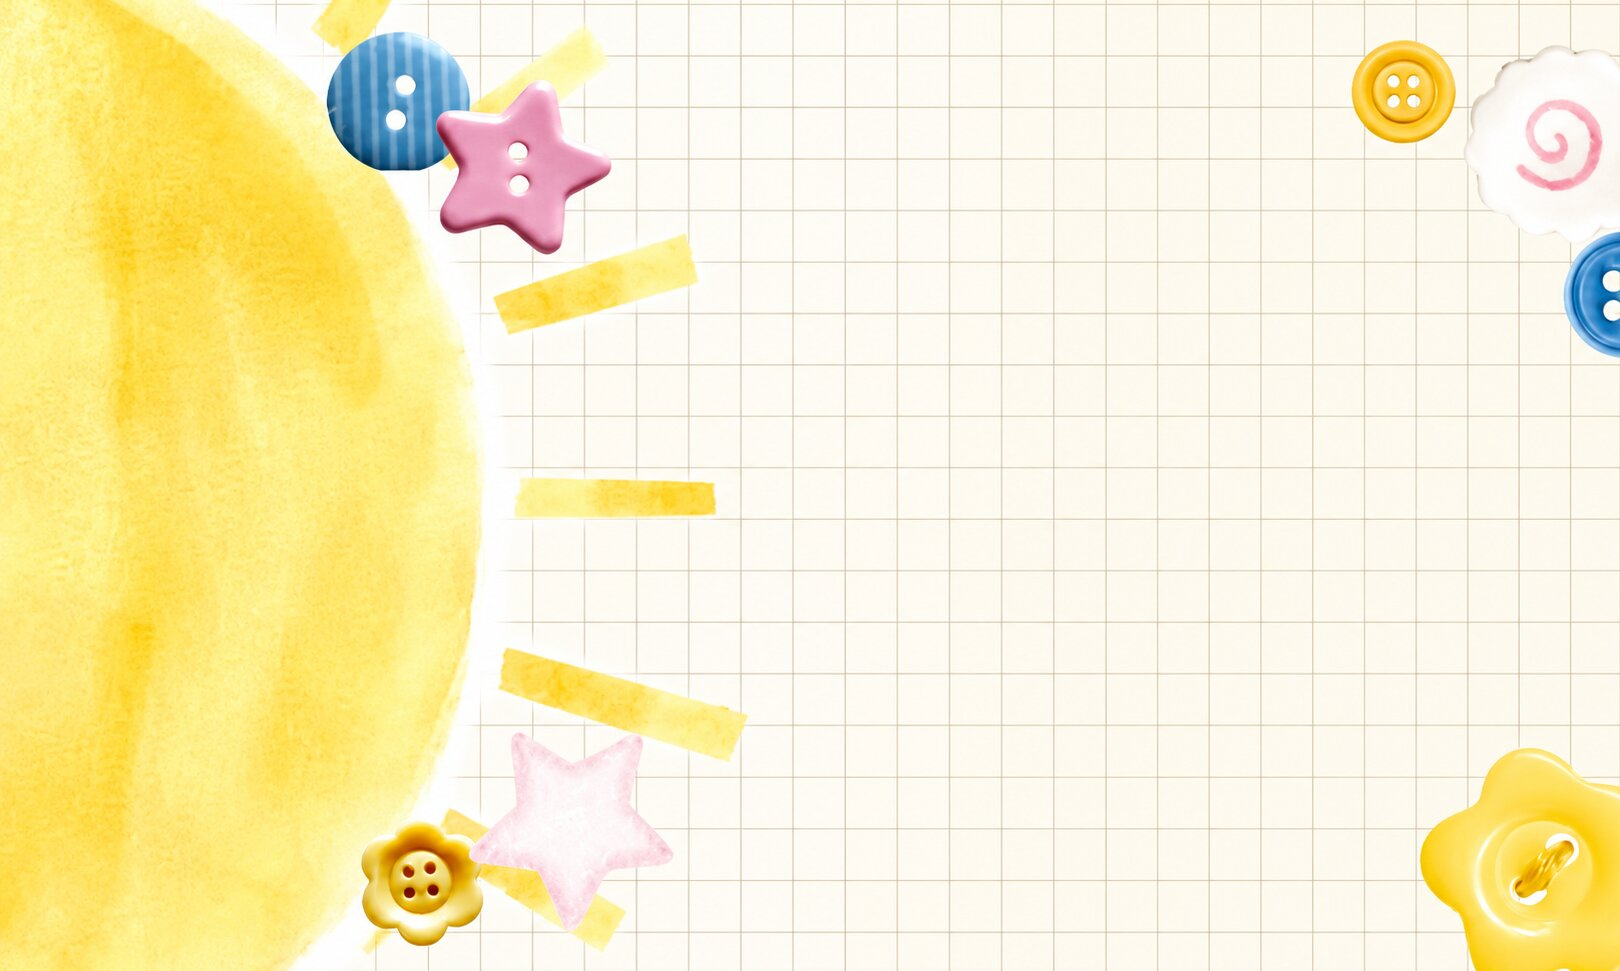
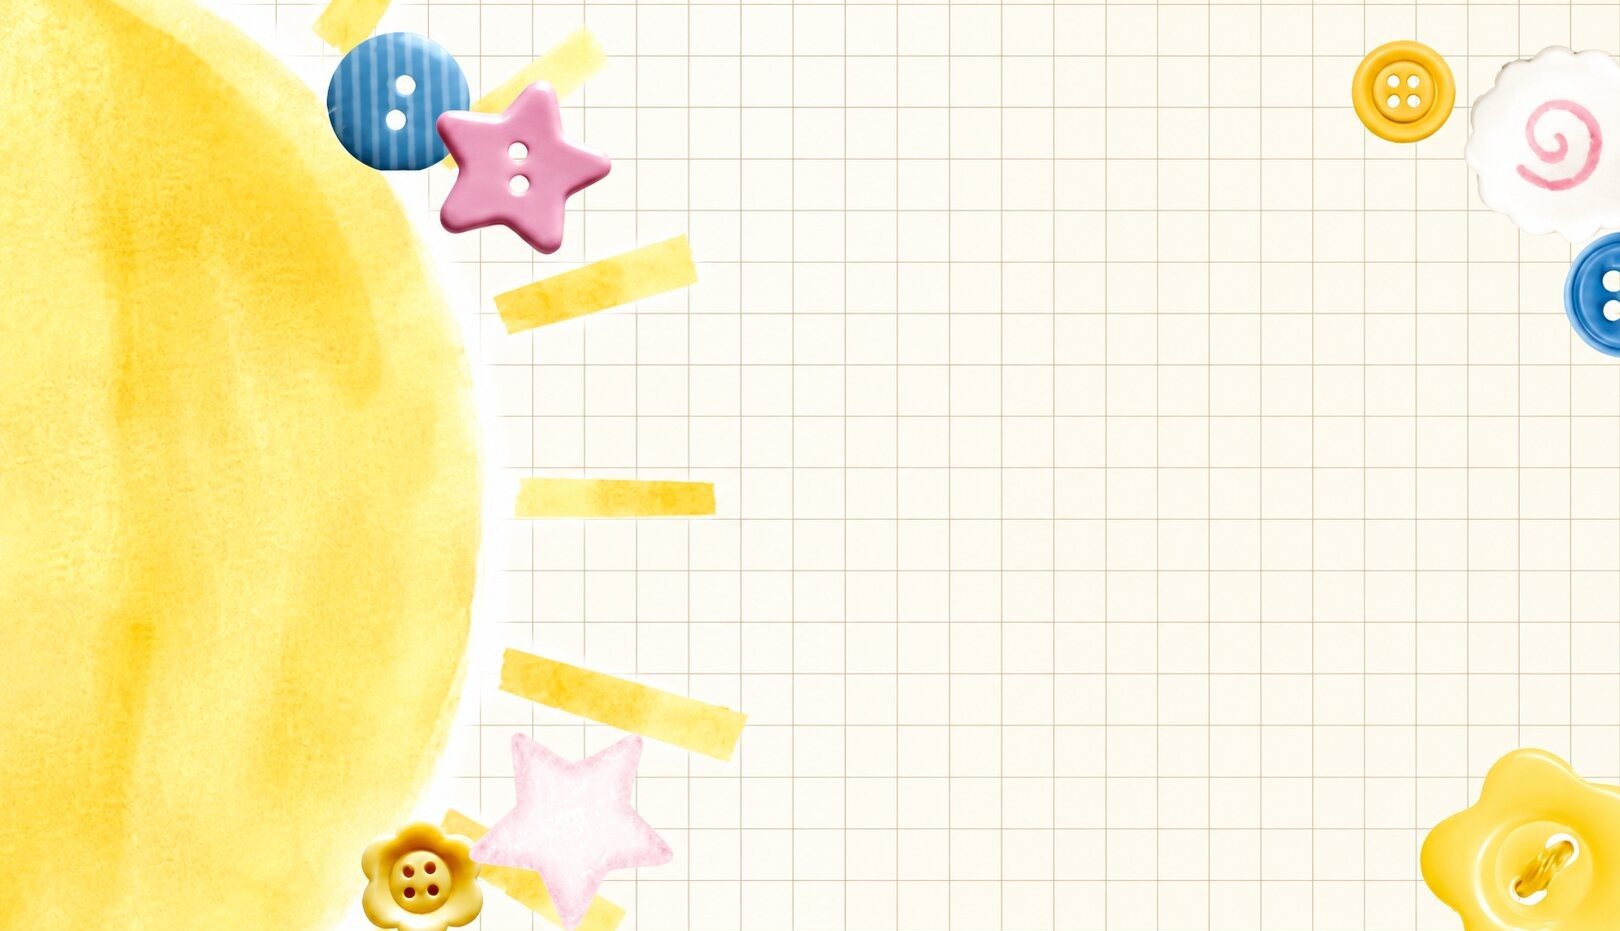
req changes

diff --git a/components/WhyChooseSection.tsx b/components/WhyChooseSection.tsx
@@ -32,7 +32,7 @@ export default function WhyChooseSection() {
 
   return (
     <section
-      className="relative w-full bg-cover bg-center pt-10 pb-20 md:pt-16 md:pb-32 overflow-hidden"
+      className="relative w-full bg-cover bg-center pt-10 pb-6 md:pt-16 md:pb-8 overflow-hidden"
       style={{
         backgroundImage: "url('/images/home/bg1.jpg')",
       }}
@@ -43,13 +43,13 @@ export default function WhyChooseSection() {
       <div className="relative z-10 px-4 sm:px-6 lg:px-8">
         <div className="mx-auto max-w-7xl">
           {/* Header */}
-          <div className="mb-16 text-center max-w-6xl mx-auto">
+          <div className="mb-8 text-center max-w-6xl mx-auto">
             <h2 className="mb-6 text-4xl font-bold text-pink-600 md:text-5xl">
               Why Choose Adhyshiv - USPs
             </h2>
 
             {/* USP Intro Block */}
-            <div className="mb-12 max-w-5xl mx-auto text-left">
+            <div className="mb-6 max-w-5xl mx-auto text-left">
               <h3 className="text-2xl md:text-3xl font-black text-[#1e40af] mb-4 text-center tracking-tight">
                 Childhood is not a Race!
               </h3>

diff --git a/app/contact/page.tsx b/app/contact/page.tsx
@@ -141,7 +141,7 @@ export default function ContactPage() {
                 <Mail className="w-6 h-6 text-white" />
               </div>
               <div className="flex-1 w-full">
-                <h3 className="text-lg font-bold text-slate-800 mb-1">Email Id</h3>
+                <h3 className="text-lg font-bold text-slate-800 mb-1">Email ID</h3>
                 <p className="text-sm font-semibold text-slate-600 leading-relaxed break-all">
                   adhyshivtrust@gmail.com
                 </p>

diff --git a/components/HeroSection.tsx b/components/HeroSection.tsx
@@ -186,7 +186,7 @@ export default function HeroSection() {
 
             {/* Description */}
             <p className="text-base sm:text-lg md:text-xl text-slate-600 font-bold max-w-xl leading-relaxed">
-              Empowering young minds, one Montessori moment at a time.
+              Encouraging curious minds to GROW into confident Humans
             </p>
 
             {/* Buttons Section */}

diff --git a/components/HomeVideoPlayer.tsx b/components/HomeVideoPlayer.tsx
@@ -194,7 +194,7 @@ export default function HomeVideoPlayer() {
 
   return (
     <section 
-      className="relative w-full bg-cover bg-center py-16 md:py-24 overflow-hidden"
+      className="relative w-full bg-cover bg-center pt-4 pb-16 md:pt-6 md:pb-24 overflow-hidden"
       style={{
         backgroundImage: "url('/images/home/bg2.jpg')",
       }}
